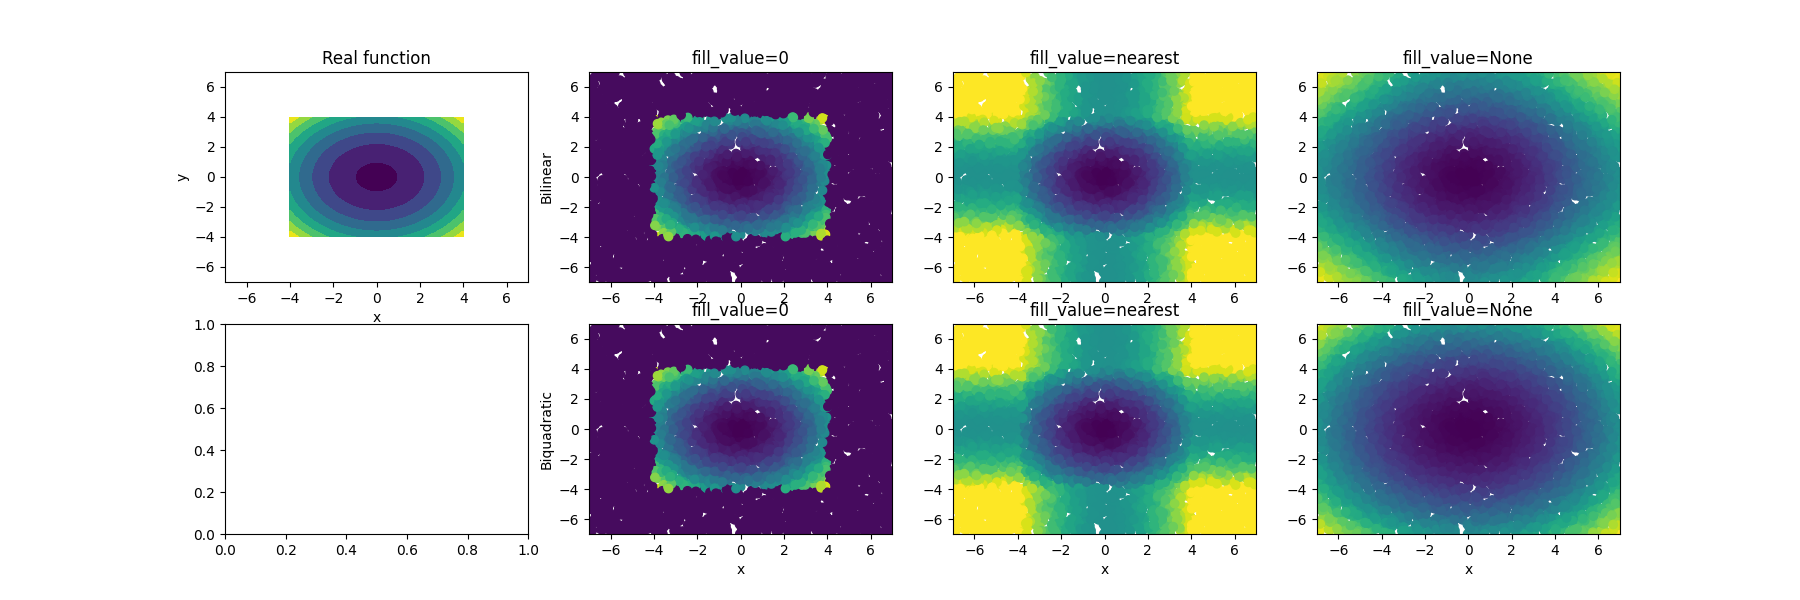
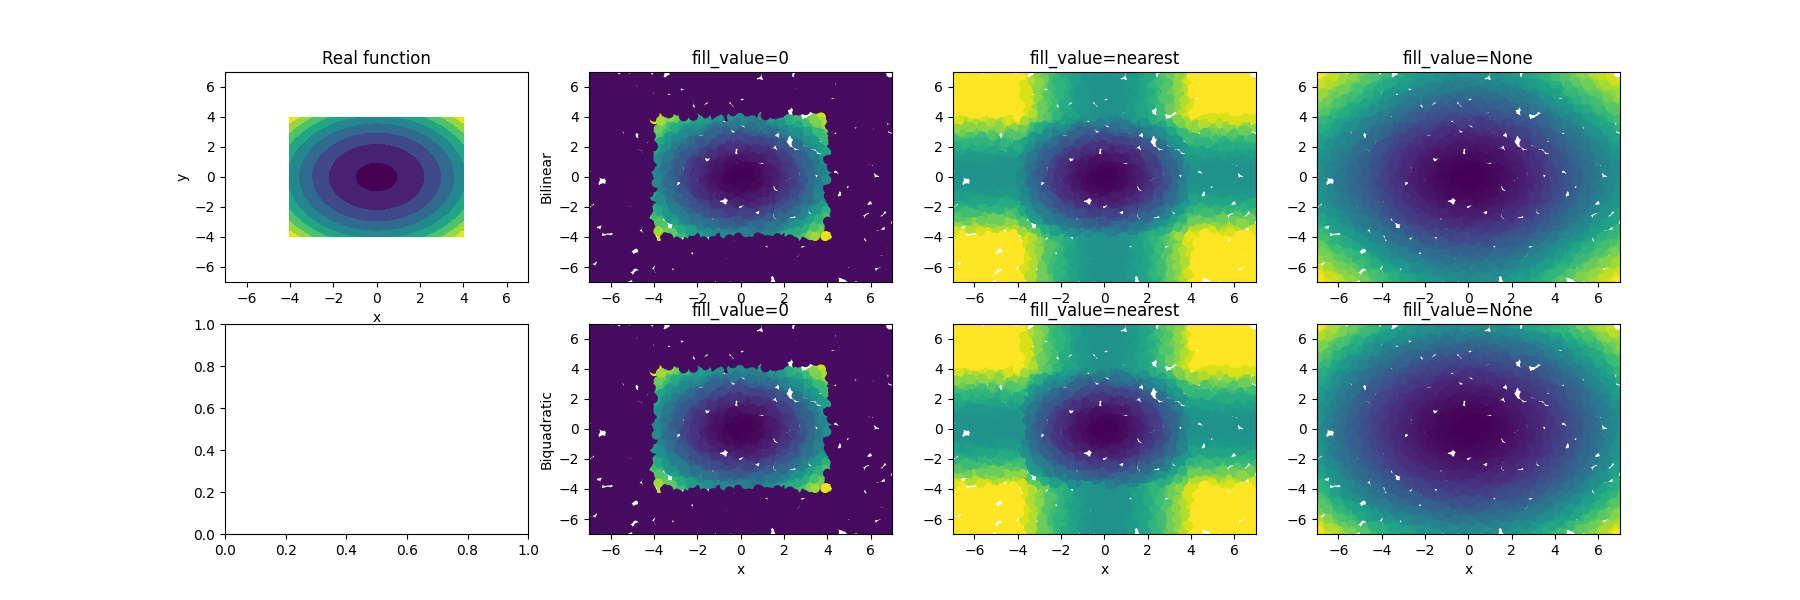
enabled using both single floating and double precision interpolation

diff --git a/pytorch_interpolation/csrc/interp.cpp b/pytorch_interpolation/csrc/interp.cpp
@@ -25,32 +25,36 @@ extern "C" {
   }
 }
 
-float compute_G_k_Bilinear( const int k,
-        const float * xpts, const float * ypts,
-        const float * x, const float * y,
+namespace extension_interp {
+
+template <typename scalar_t>
+scalar_t compute_G_k_Bilinear( const int k,
+        const scalar_t * xpts, const scalar_t * ypts,
+        const scalar_t * x, const scalar_t * y,
         const int ind_x, const int ind_xp,
         const int ind_y, const int ind_yp,
-        const float * F, const int M2,
-        const float dx, const float dy
+        const scalar_t * F, const int M2,
+        const double dx, const double dy
       ) {
 
-  const float w11 = (x[ind_xp]-xpts[k])*(y[ind_yp]-ypts[k]);
-  const float w12 = (x[ind_xp]-xpts[k])*(ypts[k]-y[ind_y]);
-  const float w21 = (xpts[k]-x[ind_x])*(y[ind_yp]-ypts[k]);
-  const float w22 = (xpts[k]-x[ind_x])*(ypts[k]-y[ind_y]);
+  const scalar_t w11 = (x[ind_xp]-xpts[k])*(y[ind_yp]-ypts[k]);
+  const scalar_t w12 = (x[ind_xp]-xpts[k])*(ypts[k]-y[ind_y]);
+  const scalar_t w21 = (xpts[k]-x[ind_x])*(y[ind_yp]-ypts[k]);
+  const scalar_t w22 = (xpts[k]-x[ind_x])*(ypts[k]-y[ind_y]);
 
   return (w11*F[ind_x*M2+ind_y] + w12*F[ind_x*M2+ind_yp] + w21*F[ind_xp*M2+ind_y] + w22*F[ind_xp*M2+ind_yp])/(dx*dy);
 
 }
 
 
-float compute_G_k_BIquadratic( const int k,
-        const float * xpts, const float * ypts,
-        const float * x, const float * y,
+template <typename scalar_t>
+scalar_t compute_G_k_BIquadratic( const int k,
+        const scalar_t * xpts, const scalar_t * ypts,
+        const scalar_t * x, const scalar_t * y,
         const int ind_x, const int ind_xm, const int ind_xp,
         const int ind_y, const int ind_ym, const int ind_yp,
-        const float * F, const int M2,
-        const float dx, const float dy
+        const scalar_t * F, const int M2,
+        const double dx, const double dy
       ) {
 
   if(ind_xm<0 || ind_ym<0){
@@ -66,21 +70,21 @@ float compute_G_k_BIquadratic( const int k,
 
     // using lagrange polynomials
 
-    const float L0_x = (xpts[k]-x[ind_x])*(xpts[k]-x[ind_xp])/( 2*dx*dx );
-    const float L1_x = (xpts[k]-x[ind_xm])*(xpts[k]-x[ind_xp])/( -dx*dx );
-    const float L2_x = (xpts[k]-x[ind_xm])*(xpts[k]-x[ind_x])/( 2*dx*dx );
+    const scalar_t L0_x = (xpts[k]-x[ind_x])*(xpts[k]-x[ind_xp])/( 2*dx*dx );
+    const scalar_t L1_x = (xpts[k]-x[ind_xm])*(xpts[k]-x[ind_xp])/( -dx*dx );
+    const scalar_t L2_x = (xpts[k]-x[ind_xm])*(xpts[k]-x[ind_x])/( 2*dx*dx );
 
-    const float L0_y = (ypts[k]-y[ind_y])*(ypts[k]-y[ind_yp])/( 2*dy*dy );
-    const float L1_y = (ypts[k]-y[ind_ym])*(ypts[k]-y[ind_yp])/( -dy*dy );
-    const float L2_y = (ypts[k]-y[ind_ym])*(ypts[k]-y[ind_y])/( 2*dy*dy );
+    const scalar_t L0_y = (ypts[k]-y[ind_y])*(ypts[k]-y[ind_yp])/( 2*dy*dy );
+    const scalar_t L1_y = (ypts[k]-y[ind_ym])*(ypts[k]-y[ind_yp])/( -dy*dy );
+    const scalar_t L2_y = (ypts[k]-y[ind_ym])*(ypts[k]-y[ind_y])/( 2*dy*dy );
 
-    // const float L0_x = (xpts[k]-x[ind_x])*(xpts[k]-x[ind_xp])/( (x[ind_xm]-x[ind_x])*(x[ind_xm]-x[ind_xp]) ); // 2*dx*dx
-    // const float L1_x = (xpts[k]-x[ind_xm])*(xpts[k]-x[ind_xp])/( (x[ind_x]-x[ind_xm])*(x[ind_x]-x[ind_xp]) ); // -dx*dx
-    // const float L2_x = (xpts[k]-x[ind_xm])*(xpts[k]-x[ind_x])/( (x[ind_xp]-x[ind_xm])*(x[ind_xp]-x[ind_x]) ); // 2*dx*dx
+    // const scalar_t L0_x = (xpts[k]-x[ind_x])*(xpts[k]-x[ind_xp])/( (x[ind_xm]-x[ind_x])*(x[ind_xm]-x[ind_xp]) ); // 2*dx*dx
+    // const scalar_t L1_x = (xpts[k]-x[ind_xm])*(xpts[k]-x[ind_xp])/( (x[ind_x]-x[ind_xm])*(x[ind_x]-x[ind_xp]) ); // -dx*dx
+    // const scalar_t L2_x = (xpts[k]-x[ind_xm])*(xpts[k]-x[ind_x])/( (x[ind_xp]-x[ind_xm])*(x[ind_xp]-x[ind_x]) ); // 2*dx*dx
 
-    // const float L0_y = (ypts[k]-y[ind_y])*(ypts[k]-y[ind_yp])/( (y[ind_ym]-y[ind_y])*(y[ind_ym]-y[ind_yp]) );
-    // const float L1_y = (ypts[k]-y[ind_ym])*(ypts[k]-y[ind_yp])/( (y[ind_y]-y[ind_ym])*(y[ind_y]-y[ind_yp]) );
-    // const float L2_y = (ypts[k]-y[ind_ym])*(ypts[k]-y[ind_y])/( (y[ind_yp]-y[ind_ym])*(y[ind_yp]-y[ind_y]) );
+    // const scalar_t L0_y = (ypts[k]-y[ind_y])*(ypts[k]-y[ind_yp])/( (y[ind_ym]-y[ind_y])*(y[ind_ym]-y[ind_yp]) );
+    // const scalar_t L1_y = (ypts[k]-y[ind_ym])*(ypts[k]-y[ind_yp])/( (y[ind_y]-y[ind_ym])*(y[ind_y]-y[ind_yp]) );
+    // const scalar_t L2_y = (ypts[k]-y[ind_ym])*(ypts[k]-y[ind_y])/( (y[ind_yp]-y[ind_ym])*(y[ind_yp]-y[ind_y]) );
 
     return (L0_x*L0_y*F[ind_xm*M2+ind_ym] + L0_x*L1_y*F[ind_xm*M2+ind_y] + L0_x*L2_y*F[ind_xm*M2+ind_yp]
           + L1_x*L0_y*F[ind_x*M2+ind_ym]   + L1_x*L1_y*F[ind_x*M2+ind_y]   + L1_x*L2_y*F[ind_x*M2+ind_yp]
@@ -91,14 +95,13 @@ float compute_G_k_BIquadratic( const int k,
 }
 
 
-namespace extension_interp {
-
-void biquadratic_interpolation_kernel_CPU_padding(float * G, float * F,
-                                        const float * xpts, const float * ypts,
+template <typename scalar_t>
+void biquadratic_interpolation_kernel_CPU_padding(scalar_t * G, scalar_t * F,
+                                        const scalar_t * xpts, const scalar_t * ypts,
                                         const int M1, const int M2, const int N,
-                                        const float dx, const float dy,
-                                        const float * x, const float * y,
-                                        const float fill_value)
+                                        double dx, double dy,
+                                        const scalar_t * x, const scalar_t * y,
+                                        double fill_value)
 {
   #pragma omp parallel for
   for(int k=0; k<N; k++){
@@ -125,11 +128,12 @@ void biquadratic_interpolation_kernel_CPU_padding(float * G, float * F,
 }
 
 
-void biquadratic_interpolation_kernel_CPU_linear_extrap_linear(float * G, float * F,
-                                        const float * xpts, const float * ypts,
+template <typename scalar_t>
+void biquadratic_interpolation_kernel_CPU_linear_extrap_linear(scalar_t * G, scalar_t * F,
+                                        const scalar_t * xpts, const scalar_t * ypts,
                                         const int M1, const int M2, const int N,
-                                        const float dx, const float dy,
-                                        const float * x, const float * y)
+                                        double dx, double dy,
+                                        const scalar_t * x, const scalar_t * y)
 {
   #pragma omp parallel for
   for(int k=0; k<N; k++){
@@ -174,11 +178,12 @@ void biquadratic_interpolation_kernel_CPU_linear_extrap_linear(float * G, float 
 }
 
 
-void biquadratic_interpolation_kernel_CPU_nearest(float * G, float * F,
-                                        const float * xpts, const float * ypts,
+template <typename scalar_t>
+void biquadratic_interpolation_kernel_CPU_nearest(scalar_t * G, scalar_t * F,
+                                        const scalar_t * xpts, const scalar_t * ypts,
                                         const int M1, const int M2, const int N,
-                                        const float dx, const float dy,
-                                        const float * x, const float * y)
+                                        double dx, double dy,
+                                        const scalar_t * x, const scalar_t * y)
 {
 
   #pragma omp parallel for
@@ -219,12 +224,13 @@ void biquadratic_interpolation_kernel_CPU_nearest(float * G, float * F,
   }
 }
 
-void bilinear_interpolation_kernel_CPU_padding(float * G, float * F,
-                                        const float * xpts, const float * ypts,
+template <typename scalar_t>
+void bilinear_interpolation_kernel_CPU_padding(scalar_t * G, scalar_t * F,
+                                        const scalar_t * xpts, const scalar_t * ypts,
                                         const int M1, const int M2, const int N,
-                                        const float dx, const float dy,
-                                        const float * x, const float * y,
-                                        const float fill_value)
+                                        double dx, double dy,
+                                        const scalar_t * x, const scalar_t * y,
+                                        double fill_value)
 {
   #pragma omp parallel for
   for(int k=0; k<N; k++){
@@ -249,11 +255,13 @@ void bilinear_interpolation_kernel_CPU_padding(float * G, float * F,
   }
 }
 
-void bilinear_interpolation_kernel_CPU_linear_extrap_linear(float * G, float * F,
-                                        const float * xpts, const float * ypts,
+
+template <typename scalar_t>
+void bilinear_interpolation_kernel_CPU_linear_extrap_linear(scalar_t * G, scalar_t * F,
+                                        const scalar_t * xpts, const scalar_t * ypts,
                                         const int M1, const int M2, const int N,
-                                        const float dx, const float dy,
-                                        const float * x, const float * y)
+                                        double dx, double dy,
+                                        const scalar_t * x, const scalar_t * y)
 {
 
   #pragma omp parallel for
@@ -291,11 +299,12 @@ void bilinear_interpolation_kernel_CPU_linear_extrap_linear(float * G, float * F
 }
 
 
-void bilinear_interpolation_kernel_CPU_linear_extrap_nearest(float * G, float * F,
-  const float * xpts, const float * ypts,
+template <typename scalar_t>
+void bilinear_interpolation_kernel_CPU_linear_extrap_nearest(scalar_t * G, scalar_t * F,
+  const scalar_t * xpts, const scalar_t * ypts,
   const int M1, const int M2, const int N,
-  const float dx, const float dy,
-  const float * x, const float * y) {
+  double dx, double dy,
+  const scalar_t * x, const scalar_t * y) {
 
   #pragma omp parallel for
   for(int k=0; k<N; k++){
@@ -349,23 +358,32 @@ void interp_cpu(
     const int64_t method
   ) {
 
-  at::Tensor F_contig = F.contiguous();
-  float* F_ptr = F_contig.data_ptr<float>();
+  AT_DISPATCH_FLOATING_TYPES_AND_HALF(F.scalar_type(), "interp_cpu", [&] {
 
-  at::Tensor xpt_contig = xpt.contiguous();
-  float* xpt_ptr = xpt_contig.data_ptr<float>();
+    at::Tensor F_contig = F.contiguous();
+    scalar_t* F_ptr = F_contig.data_ptr<scalar_t>();
 
-  at::Tensor ypt_contig = ypt.contiguous();
-  float* ypt_ptr = ypt_contig.data_ptr<float>();
+    at::Tensor xpt_contig = xpt.contiguous();
+    const scalar_t* xpt_ptr = xpt_contig.data_ptr<scalar_t>();
 
-  at::Tensor x_contig = x.contiguous();
-  const float* x_ptr = x_contig.data_ptr<float>();
+    at::Tensor ypt_contig = ypt.contiguous();
+    const scalar_t* ypt_ptr = ypt_contig.data_ptr<scalar_t>();
 
-  at::Tensor y_contig = y.contiguous();
-  const float* y_ptr = y_contig.data_ptr<float>();
+    at::Tensor x_contig = x.contiguous();
+    const scalar_t* x_ptr = x_contig.data_ptr<scalar_t>();
 
-  float* G_ptr = G.data_ptr<float>();
-  const int N  = G.numel();
+    at::Tensor y_contig = y.contiguous();
+    const scalar_t* y_ptr = y_contig.data_ptr<scalar_t>();
+
+    scalar_t* G_ptr = G.data_ptr<scalar_t>();
+    const int N  = G.numel();
+
+    // bilinear_interpolation_kernel_CPU_padding(G_ptr, F_ptr,
+    //                             xpt_ptr, ypt_ptr,
+    //                             M1, M2, N,
+    //                             dx, dy,
+    //                             x_ptr, y_ptr,
+    //                             fill_value);
 
   if (method==0) {
     if(fill_method==1) {
@@ -415,6 +433,13 @@ void interp_cpu(
                                         x_ptr, y_ptr);
     }
   }
+
+
+
+  });
+
+
+
 }
 
 // Defines the operators

diff --git a/examples/extrapolations.py b/examples/extrapolations.py
@@ -5,8 +5,9 @@ import torch
 import numpy as np
 import matplotlib.pyplot as plt
 
-device="cpu"
+device="cuda"
 torch.set_num_threads(8)
+torch.set_default_dtype(torch.float64)
 
 M1  = 2**5
 M2  = 2**5

diff --git a/examples/permormance.py b/examples/permormance.py
@@ -10,6 +10,8 @@ import torch_interpolations as torch_interpolate
 import time
 import matplotlib.pyplot as plt
 
+torch.set_default_dtype(torch.float64)
+
 N1 = 5000
 N2 = 5000
 

diff --git a/examples/example.py b/examples/example.py
@@ -6,7 +6,7 @@ import torch
 import numpy as np
 import matplotlib.pyplot as plt
 
-device="cpu"
+device="cuda"
 dtype=torch.float32
 torch.set_num_threads(8)
 
